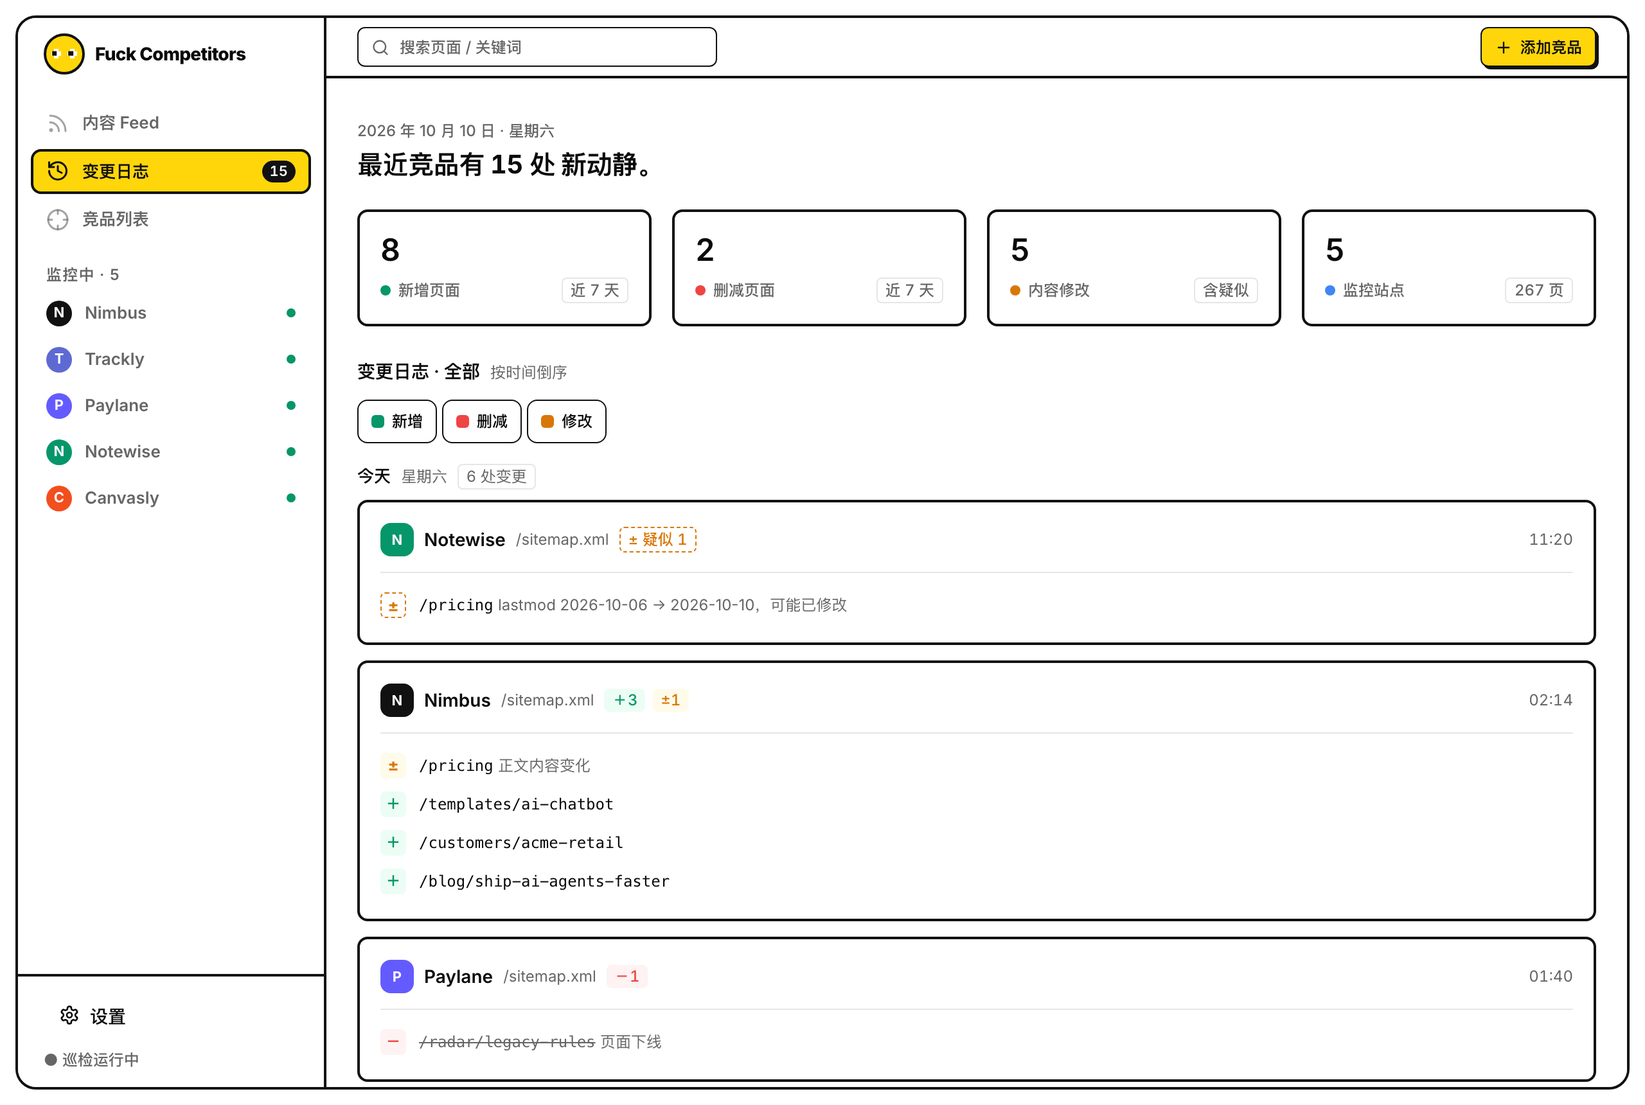
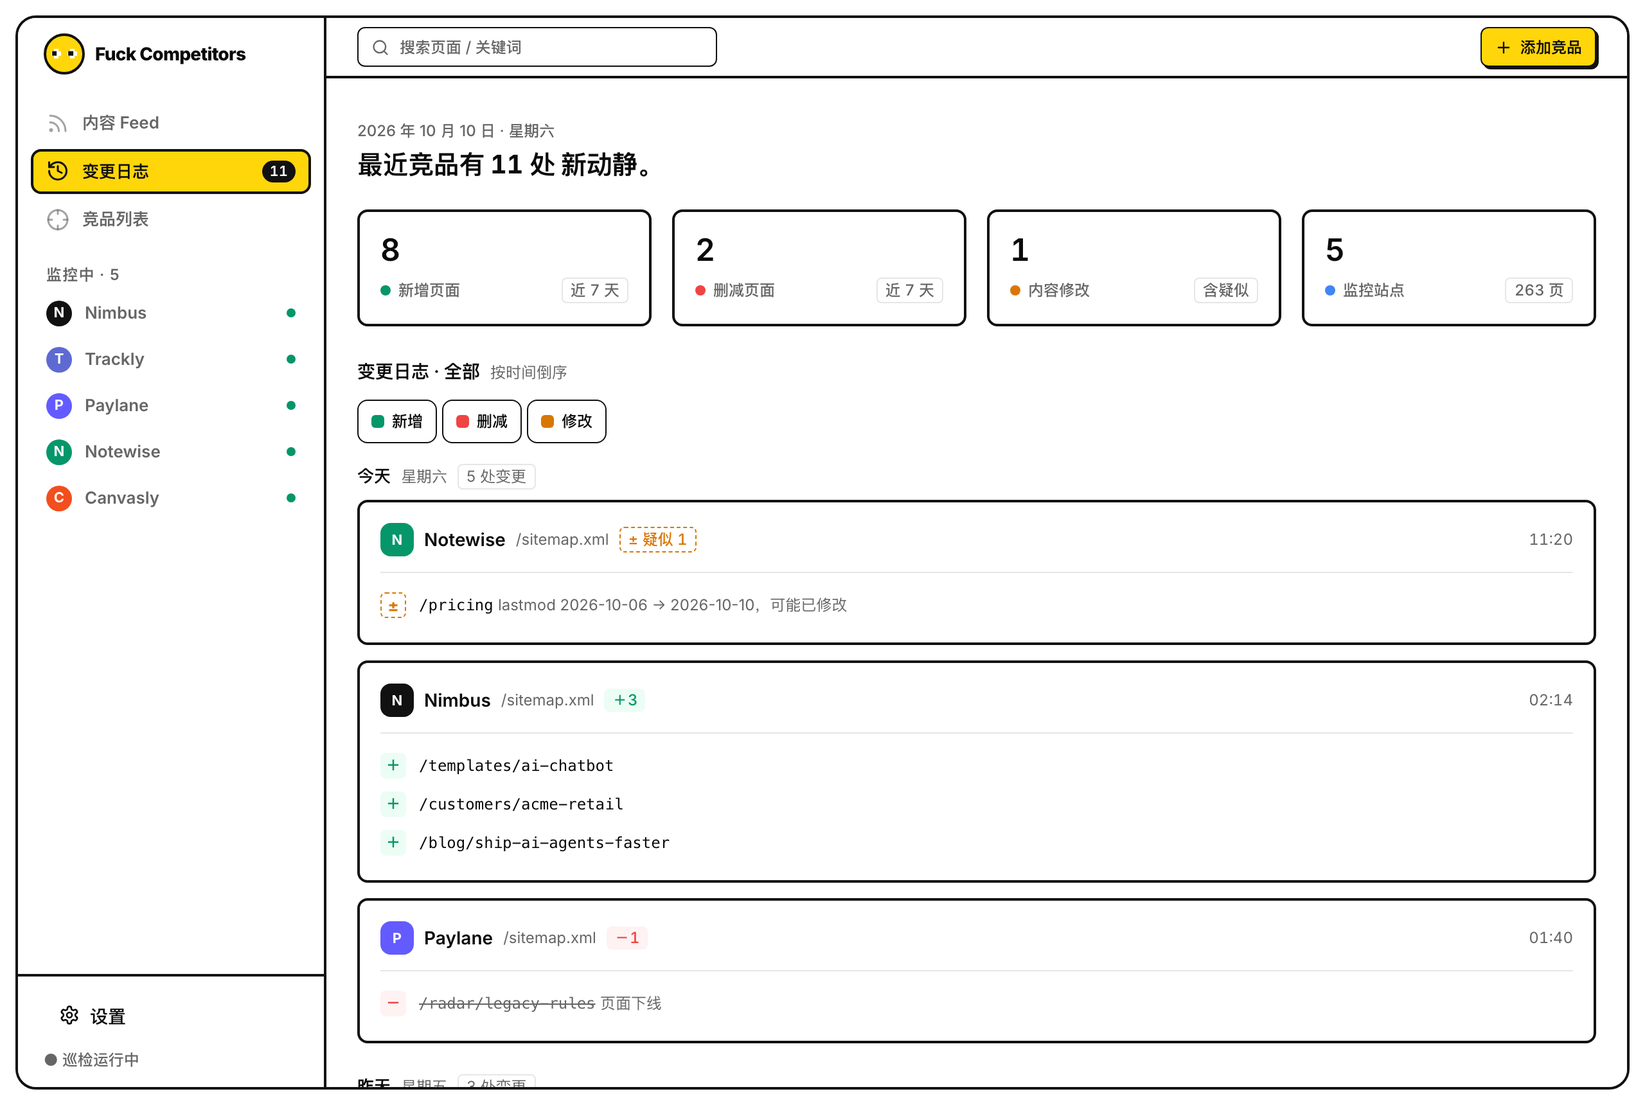
feat: remove detailed (content-diff) monitoring
The content feed only needs newly added pages, and each new article is
fetched once on its own, so crawling every page of a competitor on every
check isn't worth its cost. Removed: the per-competitor switch on the
competitor cards, the depth option in the add form, the 开启详细监控
button in the change drawer, the /competitors/{id}/detailed route, the
detailed crawl and its config (FC_DETAILED_MAX_PAGES, FC_SNAPSHOT_RETENTION),
and the diff helper. extract_text moves to monitor/extract.py. The
detailed_on column and the snapshots table stay for existing databases;
old 'modified' changes still open with their diff.

Changed region(s): [[0.2188, 0.6779, 0.9688, 0.986], [0.5938, 0.2157, 0.625, 0.2465]]

diff --git a/app/templates/index.html b/app/templates/index.html
@@ -9,7 +9,7 @@
 <link rel="preconnect" href="https://fonts.gstatic.com" crossorigin>
 <link href="https://fonts.googleapis.com/css2?family=Inter:wght@400..800&display=swap" rel="stylesheet">
 <link rel="icon" type="image/svg+xml" href="/static/favicon.svg">
-<link rel="stylesheet" href="/static/app.css?v=2">{# bump ?v= when app.css / app.js change: Cloudflare caches /static for 4h #}
+<link rel="stylesheet" href="/static/app.css?v=3">{# bump ?v= when app.css / app.js change: Cloudflare caches /static for 4h #}
 <link rel="stylesheet" href="/static/feed.css?v=4">
 </head>
 
@@ -112,7 +112,7 @@
       <div class="ob-features">
         <div class="ob-feat"><div class="fi" style="background:var(--add-bg);color:var(--add)">＋</div><h4>捕捉新增</h4><p>竞品上线新页面（新品、新案例、新博客）第一时间记录。</p></div>
         <div class="ob-feat"><div class="fi" style="background:var(--del-bg);color:var(--del)">－</div><h4>追踪删减</h4><p>页面悄悄下线，往往是产品线调整或策略转向的信号。</p></div>
-        <div class="ob-feat"><div class="fi" style="background:var(--mod-bg);color:var(--mod)">±</div><h4>内容变化</h4><p>基础监控提示「疑似修改」；开启详细监控看定价、文案的逐行 diff。</p></div>
+        <div class="ob-feat"><div class="fi" style="background:var(--mod-bg);color:var(--mod)">±</div><h4>内容变化</h4><p>sitemap 里的 <code>lastmod</code> 变了，会提示「疑似修改」。</p></div>
       </div>
     </section>
 
@@ -163,11 +163,6 @@
             <div><div class="k">追踪页面</div><div class="v">{{ s.tracked }}</div></div>
             <div><div class="k">近 7 天变更</div><div class="v" style="color:var(--accent)">{{ s.week_changes }}</div></div>
           </div>
-          <form method="post" action="/competitors/{{ s.id }}/detailed" class="card-foot">
-            <span class="lvl {{ 'deep' if s.detailed else 'basic' }}">{{ '详细监控' if s.detailed else '基础监控' }}</span>
-            <span>{{ '抓取全部页面正文、逐行对比' if s.detailed else '仅 sitemap 增删' }}</span>
-            <label class="switch"><input type="checkbox" name="on" {% if s.detailed %}checked{% endif %} onchange="this.form.submit()"><span class="track"></span></label>
-          </form>
         </div>
         {% else %}
         <p class="empty-soft">还没有竞品，点右上角「＋ 添加竞品」。</p>
@@ -208,15 +203,6 @@
             <li data-value="24" class="sel">每天</li>
             <li data-value="168">每周</li>
           </ul>
-        </div>
-      </div>
-      <div class="field"><label>监控深度</label>
-        <div class="toggle-card">
-          <div style="flex:1">
-            <div class="t">详细内容监控 <span class="lvl deep" style="margin-left:4px">可选</span></div>
-            <div class="d">基础监控（默认）：检测页面新增 / 删减，并在 sitemap 带 <code>lastmod</code> 时提示「疑似修改」。开启后抓取正文，逐行对比定价、文案等<b>具体</b>改动。可稍后对单个竞品开启。</div>
-          </div>
-          <label class="switch"><input type="checkbox" name="detailed"><span class="track"></span></label>
         </div>
       </div>
       <div class="modal-foot">

diff --git a/app/static/app.css b/app/static/app.css
@@ -171,20 +171,6 @@ body.first-run .side-foot{display:none}
 .xic{width:10px;height:10px;fill:currentColor;shape-rendering:crispEdges;flex-shrink:0}
 .wic{width:11px;height:11px;fill:var(--mod);shape-rendering:crispEdges;vertical-align:-2px;margin-right:3px}
 
-/* toggle switch: ink outline, yellow when on (yellow = selected) */
-.switch{position:relative;display:inline-block;width:36px;height:20px;flex-shrink:0}
-.switch input{display:none}
-.switch .track{position:absolute;inset:0;background:transparent;border:2px solid var(--nb-ink);border-radius:9999px;transition:background-color .2s;cursor:pointer}
-.switch .track::before{content:"";position:absolute;width:12px;height:12px;left:2px;top:2px;background:var(--nb-ink);border-radius:50%;transition:transform .2s}
-.switch input:checked + .track{background:var(--nb-yellow)}
-.switch input:checked + .track::before{transform:translateX(16px);background:#111}
-.toggle-card{display:flex;align-items:center;gap:14px;border:1.5px solid var(--nb-ink);border-radius:8px;padding:12px}
-.toggle-card .t{font-weight:600;font-size:13px}
-.toggle-card .d{font-size:12px;color:var(--muted-fg);margin-top:3px;line-height:1.5}
-.lvl{font-size:12px;font-weight:500;padding:0 6px;border-radius:4px;white-space:nowrap}
-.lvl.basic{border:1px solid var(--line);color:var(--muted-fg)}
-.lvl.deep{background:var(--nb-yellow);color:#111;box-shadow:inset 0 0 0 1.5px var(--nb-ink)}
-
 /* competitor cards = the /app home site cards (nb-panel rounded-xl) */
 .grid{display:grid;grid-template-columns:repeat(auto-fill,minmax(300px,1fr));gap:16px}
 .site-card{border:2px solid var(--nb-ink);border-radius:12px;padding:16px}
@@ -201,8 +187,6 @@ body.first-run .side-foot{display:none}
 .top-right{display:flex;align-items:center;gap:6px;margin-left:auto}
 .card-settings{font-family:inherit;font-size:12px;font-weight:500;color:var(--fg);background:transparent;border:1.5px solid var(--nb-ink);height:26px;padding:0 8px;border-radius:6px;cursor:pointer;transition:background-color .15s}
 .card-settings:hover{background:var(--hover)}
-.card-foot{display:flex;align-items:center;gap:8px;border-top:1px solid var(--line);margin-top:12px;padding-top:12px;font-size:12px;color:var(--muted-fg)}
-.card-foot .switch{margin-left:auto}
 
 .empty-soft{color:var(--muted-fg);font-size:13px}
 

diff --git a/app/templates/partials/drawer.html b/app/templates/partials/drawer.html
@@ -8,14 +8,10 @@
   </div>
 
   {% if mode == 'suspected' %}
-  <div class="dh">为什么看不到具体改动？ <span class="line"></span><span class="tag susp">基础监控</span></div>
+  <div class="dh">为什么看不到具体改动？ <span class="line"></span></div>
   <div class="upsell">
-    <div class="pd">基础监控只读取 sitemap，检测到该页 <b>lastmod {{ lastmod }}</b>，说明页面<b>可能有改动</b>，但未抓取正文，<b>无法显示改了什么</b>。</div>
+    <div class="pd">巡检只读取 sitemap，检测到该页 <b>lastmod {{ lastmod }}</b>，说明页面<b>可能有改动</b>，但未抓取正文，<b>无法显示改了什么</b>。</div>
     <div class="why"><svg class="wic" viewBox="0 0 8 8"><rect x="3" y="0" width="2" height="2"/><rect x="2" y="2" width="4" height="2"/><rect x="1" y="4" width="6" height="2"/><rect x="0" y="6" width="8" height="1"/></svg>该提示依赖站点诚实填写 lastmod；未提供 lastmod 的站点连「疑似修改」也无法判断。</div>
-    <form method="post" action="/competitors/{{ competitor_id }}/detailed">
-      <input type="hidden" name="on" value="1">
-      <button class="btn btn-primary" type="submit" style="margin-top:13px"><svg viewBox="0 0 24 24" fill="none" stroke="currentColor" stroke-width="2" stroke-linecap="round" stroke-linejoin="round"><path d="M4 14a1 1 0 0 1-.78-1.63l9.9-10.2a.5.5 0 0 1 .86.46l-1.92 6.02A1 1 0 0 0 13 10h7a1 1 0 0 1 .78 1.63l-9.9 10.2a.5.5 0 0 1-.86-.46l1.92-6.02A1 1 0 0 0 11 14z"/></svg> 为该竞品开启详细监控</button>
-    </form>
   </div>
 
   {% elif mode == 'diff' %}

diff --git a/app/static/app.js b/app/static/app.js
@@ -118,11 +118,4 @@ document.addEventListener('keydown', e => {
 if (window.FC_DEMO) {
   const demoNotice = () => alert('这是演示站，不能添加或修改数据。\n想监控自己的竞品，请到 GitHub 自行部署：\nhttps://github.com/tod-zhang/fuck-competitors');
   document.addEventListener('submit', e => { e.preventDefault(); demoNotice(); }, true);
-  // the monitoring-depth switches submit via an inline onchange; stop that and undo the flip
-  document.addEventListener('change', e => {
-    if (!e.target.hasAttribute('onchange')) return;
-    e.stopPropagation();
-    e.target.checked = !e.target.checked;
-    demoNotice();
-  }, true);
 }

diff --git a/app/demo.py b/app/demo.py
@@ -12,8 +12,7 @@ from datetime import timedelta
 from sqlmodel import Session, SQLModel
 
 from .db import engine, init_db
-from .models import AppSetting, Change, Competitor, FeedItem, MyPost, Page, Snapshot, StrategySummary
-from .monitor.diff import make_hunks
+from .models import AppSetting, Change, Competitor, FeedItem, MyPost, Page, StrategySummary
 from .timeutil import utcnow
 
 
@@ -29,9 +28,9 @@ def reseed() -> None:
     first_seen = now - timedelta(days=9)
 
     with Session(engine) as s:
-        def comp(name, color, host, detailed=False, interval=24):
+        def comp(name, color, host, interval=24):
             c = Competitor(name=name, color=color, sitemap_url=f"https://{host}/sitemap.xml",
-                           detailed_on=detailed, check_interval_hours=interval,
+                           check_interval_hours=interval,
                            last_checked_at=now, status="ok", created_at=first_seen)
             s.add(c); s.commit(); s.refresh(c)
             return c
@@ -51,26 +50,18 @@ def reseed() -> None:
         def change(c, p, type_, when, detail=None):
             s.add(Change(competitor_id=c.id, page_id=p.id, type=type_, detected_at=when, detail=detail or {}))
 
-        def modified(c, path, when, title, old, new):
-            p = page(c, path)
-            s.add(Snapshot(page_id=p.id, content_hash="demo", title=title, content_text=new))
-            change(c, p, "modified", when, {"title": title, "hunks": make_hunks(old, new)})
-
-        nimbus = comp("Nimbus", "#111111", "nimbus.example", detailed=True)
+        nimbus = comp("Nimbus", "#111111", "nimbus.example")
         trackly = comp("Trackly", "#5E6AD2", "trackly.example")
-        paylane = comp("Paylane", "#635BFF", "paylane.example", detailed=True)
+        paylane = comp("Paylane", "#635BFF", "paylane.example")
         notewise = comp("Notewise", "#059669", "notewise.example", interval=168)
-        canvasly = comp("Canvasly", "#F24E1E", "canvasly.example", detailed=True)
+        canvasly = comp("Canvasly", "#F24E1E", "canvasly.example")
         for c, n in [(nimbus, 40), (trackly, 18), (paylane, 93), (notewise, 60), (canvasly, 27)]:
             filler(c, n)
         s.commit()
 
-        # Nimbus — today: 3 added + pricing modified (content diff)
+        # Nimbus — today: 3 added
         for path in ["/blog/ship-ai-agents-faster", "/customers/acme-retail", "/templates/ai-chatbot"]:
             change(nimbus, page(nimbus, path), "added", today)
-        modified(nimbus, "/pricing", today, "Pricing – Nimbus",
-                 "Pro 套餐 · $20 / 每位成员 / 月\n无限项目 · 高级分析",
-                 "Pro 套餐 · $25 / 每位成员 / 月\n无限项目 · 高级分析\n联系销售 · 企业版")
 
         # Paylane — today: a page went offline
         change(paylane, page(paylane, "/radar/legacy-rules", status="removed"), "removed",
@@ -82,10 +73,7 @@ def reseed() -> None:
         change(notewise, page(notewise, "/pricing", lastmod=lastmod_to), "suspected", now.replace(hour=11, minute=20),
                {"lastmod_from": lastmod_from, "lastmod_to": lastmod_to})
 
-        # Canvasly — yesterday: homepage hero rewritten + pricing modified + blog added
-        modified(canvasly, "/", yday.replace(hour=19, minute=27), "Canvasly",
-                 "Nothing great is made alone", "Design and build, powered by AI")
-        change(canvasly, page(canvasly, "/pricing"), "modified", yday.replace(hour=19, minute=20), {"title": "Pricing"})
+        # Canvasly — yesterday: blog added
         change(canvasly, page(canvasly, "/blog/config-recap"), "added", yday.replace(hour=18, minute=0))
 
         # Trackly — yesterday: 2 added
@@ -93,9 +81,6 @@ def reseed() -> None:
         change(trackly, page(trackly, "/integrations/slack-v2"), "added", yday.replace(hour=22, minute=3))
 
         # Older entries so the timeline spans the week
-        modified(paylane, "/pricing", d3.replace(hour=9, minute=12), "Pricing – Paylane",
-                 "标准费率 2.9% + 30¢ / 笔\n无月费",
-                 "标准费率 2.7% + 30¢ / 笔\n无月费\n大客户可议价")
         change(paylane, page(paylane, "/docs/webhooks-v1", status="removed"), "removed", d3.replace(hour=9, minute=10))
         change(notewise, page(notewise, "/ai/meeting-notes"), "added", d5.replace(hour=15, minute=48))
         change(notewise, page(notewise, "/templates/okr-tracker"), "added", d5.replace(hour=15, minute=48))

diff --git a/app/service.py b/app/service.py
@@ -7,7 +7,6 @@ from .config import settings
 from .db import engine
 from .models import Change, Competitor, Page
 from .monitor.basic import diff_pages
-from .monitor.detailed import check_page_content
 from .monitor.favicon import resolve_favicon
 from .monitor.sitemap import fetch_all_pages
 from .timeutil import utcnow
@@ -102,31 +101,11 @@ def run_basic_check(session: Session, competitor: Competitor) -> dict:
     return {"baseline": is_baseline, "tracked": len(entries), **logged}
 
 
-def run_detailed_check(session: Session, competitor: Competitor) -> int:
-    """Content-diff every active page (capped). Returns number of modified pages."""
-    from .monitor import fetch  # lazy: keep httpx out of service's import path
-
-    pages = session.exec(
-        select(Page).where(Page.competitor_id == competitor.id, Page.status == "active")
-    ).all()
-    if len(pages) > settings.detailed_max_pages:
-        pages = pages[: settings.detailed_max_pages]
-    modified = 0
-    # One client for the whole run so connections (and per-host rate limiting) are reused
-    # across pages instead of a fresh TCP/TLS handshake per page.
-    with fetch.make_client(settings.request_timeout) as client:
-        for page in pages:
-            if check_page_content(session, page, client) is not None:
-                modified += 1
-            session.commit()  # release the write lock between (network-bound) page checks
-    return modified
-
-
 def run_check(competitor_id: int) -> dict:
-    """Full check for one competitor: basic always, detailed if opted in.
+    """Full check for one competitor (sitemap diff).
 
-    run_basic_check / run_detailed_check commit their own work in batches (so the write lock
-    is released frequently); the final commit here just flushes any straggler.
+    run_basic_check commits its own work in batches (so the write lock is released
+    frequently); the final commit here just flushes any straggler.
     """
     with Session(engine) as session:
         competitor = session.get(Competitor, competitor_id)
@@ -134,8 +113,6 @@ def run_check(competitor_id: int) -> dict:
             raise ValueError(f"competitor {competitor_id} not found")
 
         result = {"checked": competitor.name, **run_basic_check(session, competitor)}
-        if competitor.detailed_on:
-            result["modified"] = run_detailed_check(session, competitor)
 
         session.commit()
         return result

diff --git a/app/feed.py b/app/feed.py
@@ -3,7 +3,7 @@
 - ingest(): turn new sitemap pages ("added" changes) into feed items; the first crawl of a
   competitor also seeds the feed with pages whose <lastmod> is recent.
 - enrich(): fetch each new article once for title, description, thumbnail and read time (a
-  detailed-monitoring snapshot is the fallback), embed it, and match it against my own blog posts.
+  a stored page snapshot, if any, is the fallback), embed it, and match it against my own blog posts.
 - sync_my_posts(): fetch + embed my blog (its sitemap) so matching has something to compare to.
 - keywords / strategy / suggestions: on-request calls to DataForSEO and the chat model.
 """
@@ -104,7 +104,7 @@ def page_meta(html: bytes, url: str) -> dict:
     """Title, body text, description, thumbnail and read time from a fetched article."""
     from selectolax.parser import HTMLParser
 
-    from .monitor.detailed import extract_text
+    from .monitor.extract import extract_text
 
     tree = HTMLParser(html)
 
@@ -128,7 +128,7 @@ def page_meta(html: bytes, url: str) -> dict:
 
 
 def _fill_text(session: Session, items: list[FeedItem]) -> None:
-    """Fetch each new article once for its metadata; fall back to a detailed-monitoring snapshot."""
+    """Fetch each new article once for its metadata; fall back to a stored snapshot."""
     from .monitor import fetch
 
     with fetch.make_client(settings.request_timeout) as client:
@@ -232,7 +232,7 @@ def backfill_all() -> None:
 def sync_my_posts() -> dict:
     """Fetch my blog's sitemap, embed every post (capped), then re-match the whole feed."""
     from .monitor import fetch
-    from .monitor.detailed import extract_text
+    from .monitor.extract import extract_text
     from .monitor.sitemap import fetch_all_pages
 
     with Session(engine) as session:

diff --git a/app/web.py b/app/web.py
@@ -63,7 +63,6 @@ def index(request: Request):
                 "tracked": active_by_comp.get(c.id, 0),
                 "week_changes": week_by_comp.get(c.id, 0),
                 "freq": vm.interval_label(c.check_interval_hours),
-                "detailed": c.detailed_on,
                 "favicon": vm.favicon_url_for(c),
             }
             for c in competitors
@@ -102,7 +101,6 @@ def create_competitor(
     name: str = Form(...),
     sitemap_url: str = Form(...),
     interval_hours: int = Form(24),
-    detailed: str = Form(None),
 ):
     with Session(engine) as s:
         count = len(s.exec(select(Competitor)).all())
@@ -110,7 +108,6 @@ def create_competitor(
             name=name.strip(),
             sitemap_url=sitemap_url.strip(),
             check_interval_hours=interval_hours,
-            detailed_on=bool(detailed),
             color=PALETTE[count % len(PALETTE)],
         )
         s.add(competitor)
@@ -118,17 +115,6 @@ def create_competitor(
         s.refresh(competitor)
     schedule_competitor(competitor)
     check_now(competitor.id)
-    return RedirectResponse("/", status_code=303)
-
-
-@router.post("/competitors/{competitor_id}/detailed")
-def toggle_detailed(competitor_id: int, on: str = Form(None)):
-    with Session(engine) as s:
-        competitor = s.get(Competitor, competitor_id)
-        if competitor:
-            competitor.detailed_on = bool(on)
-            s.add(competitor)
-            s.commit()
     return RedirectResponse("/", status_code=303)
 
 

diff --git a/app/models.py b/app/models.py
@@ -15,7 +15,7 @@ class Competitor(SQLModel, table=True):
     sitemap_url: str
     color: str = "#39332B"               # sidebar monogram color
     check_interval_hours: int = 24
-    detailed_on: bool = False            # opt-in: fetch page content for diffing
+    detailed_on: bool = False            # deprecated/unused — detailed monitoring was removed
     favicon_url: Optional[str] = None    # resolved from the site's <link rel="icon">, if any
     status: str = "ok"                   # ok | error
     last_checked_at: Optional[datetime] = None
@@ -47,7 +47,7 @@ class Change(SQLModel, table=True):
 
 
 class Snapshot(SQLModel, table=True):
-    """Page content history for detailed monitoring (used to compute content diffs)."""
+    """Page content history from the removed detailed monitoring; no longer written (old rows are still read as the feed fallback)."""
     id: Optional[int] = Field(default=None, primary_key=True)
     page_id: int = Field(foreign_key="page.id", index=True)
     captured_at: datetime = Field(default_factory=utcnow)

diff --git a/app/monitor/extract.py b/app/monitor/extract.py
@@ -1,0 +1,23 @@
+"""Main-text extraction from an HTML page (used by the content feed for titles and excerpts)."""
+from __future__ import annotations
+
+import re
+
+
+def extract_text(html: bytes) -> tuple[str, str]:
+    """Return (title, normalized visible text), stripping nav / footer / script chrome."""
+    from selectolax.parser import HTMLParser  # lazy import
+
+    tree = HTMLParser(html)
+    title_node = tree.css_first("title")
+    title = title_node.text(strip=True) if title_node else ""
+
+    for selector in ("script", "style", "noscript", "nav", "footer", "svg", "header"):
+        for node in tree.css(selector):
+            node.decompose()
+
+    root = tree.body or tree.root
+    text = root.text(separator="\n") if root else ""
+    lines = [re.sub(r"\s+", " ", ln).strip() for ln in text.splitlines()]
+    lines = [ln for ln in lines if ln]
+    return title, "\n".join(lines)

diff --git a/app/viewmodels.py b/app/viewmodels.py
@@ -172,11 +172,11 @@ def build_detail_vm(change: Change, page: Page | None, competitor: Competitor | 
         vm["title"] = detail.get("title") or "内容已修改"
         vm["mode"] = "diff"
         vm["hunks"] = detail.get("hunks", [])
-        vm["meta"] = [("检测时间", dt), ("监控深度", "详细"), ("正文标题", detail.get("title") or "—")]
+        vm["meta"] = [("检测时间", dt), ("正文标题", detail.get("title") or "—")]
     elif change.type == "suspected":
         vm["title"] = "页面可能已修改"
         vm["mode"] = "suspected"
         vm["lastmod"] = f"{detail.get('lastmod_from') or '—'} → {detail.get('lastmod_to') or '—'}"
-        vm["meta"] = [("检测时间", dt), ("lastmod", vm["lastmod"]), ("监控深度", "基础")]
+        vm["meta"] = [("检测时间", dt), ("lastmod", vm["lastmod"])]
 
     return vm

diff --git a/app/config.py b/app/config.py
@@ -13,8 +13,6 @@ class Settings(BaseSettings):
     crawl_delay_seconds: float = 1.0   # min spacing between requests to the same host (robots Crawl-delay can raise it)
     block_cooldown_seconds: int = 900  # after a 403 / 429-without-Retry-After, skip that host for this long
     max_sitemap_urls: int = 50_000
-    snapshot_retention: int = 10  # detailed-monitoring snapshots kept per page
-    detailed_max_pages: int = 500  # cap pages content-diffed per detailed crawl (safety for huge sites)
     write_batch: int = 200  # commit crawl writes every N rows so the write lock is released often
     demo_mode: bool = False  # read-only showcase: fake data reseeded daily, no crawling, all writes rejected
 
